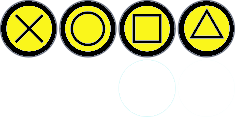
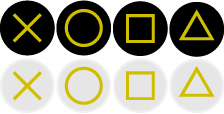
Add files via upload

diff --git a/Controllers/beez/style.css b/Controllers/beez/style.css
@@ -1,123 +1,137 @@
-body { 
-    background-color: #000000; 
-    background-color: RGBA(0, 0, 0, 0); 
-    margin: 0 auto; 
-    overflow: hidden; 
-} .controller.xbox{
-    background: url(https://i.imgur.com/kS8T8Dt.png);
-    width: 807px;
-    height: 651px;
-    margin-left: 0;
-    margin-top: 0;
-} .xbox .sticks {
-	width: 367px;
-    height: 100px;
-    left: 220px;
-    top: 333px;
-}.xbox .stick {
-    background: url(https://i.imgur.com/D89v2xc.png);
-    width: 100px;
-    height: 100px;
-} .xbox .stick.pressed {
-    background-position: -102px 0;
-} .xbox .stick.right {
-    top: 0;
-    left: 267px;
-} .xbox .abxy {
-    width: 181px;
-    height: 181px;
-    left: 573px;
-    top: 178px;
-} .xbox .button {
-    background: url(https://i.imgur.com/p4vyf2h.png);
-    width: 58px;
-    height: 58px;
-} .xbox .button.pressed {
-  	background-position-y: -59px;
-	margin-top: 0;
-} .xbox .a {
-    background-position: 0 0;
-    left: 61px;
-    top: 123px;
-} .xbox .b {
-    background-position: -59px 0;
-    left: 123px;
-    top: 62px;
-} .xbox .x {
-    background-position: -118px 0;
-    left: 0px;
-    top: 61px;
-} .xbox .y {
-    background-position: -177px 0;
-    left: 61px;
-    top: 0px;
-} .xbox .arrows {
-    left: 195px;
-	top: 140px;
-    width: 416px;
-    height: 57px;
-} .xbox .quadrant { 
-    display: none; 
-} .xbox .back, .xbox .start {
-    background: url(https://i.imgur.com/3wQwtuy.png);
-    width: 27px;
-    height: 57px;
-    opacity: 0;
-} .xbox .start {
-    background-position: 27px 0;
-    float: right;
-} .xbox .dpad {
-	width: 144px;
-    height: 144px;
-    left: 71px;
-    top: 196px;
-} .xbox .face {
-    background: url(beezface.png);
-    position: absolute;
-    opacity: 0;
-} .xbox .face.up {
-    background-position: 0 -68px;
-    width: 52px;
-    height: 63px;
-    left: 46px;
-} .xbox .face.down {
-    background-position: -54px 63px;
-    width: 52px;
-    height: 63px;
-    left: 46px;
-    top: 81px;
-} .xbox .face.left {
-    background-position: -108px -68px;
-    width: 64px;
-    height: 52px;
-    left: -1px;
-    top: 47px; 
-} .xbox .face.right {
-    background-position: -175px -68px;
-    width: 63px;
-    height: 52px;
-    left: 81px;
-    top: 46px;
-} .xbox .bumpers {
-    width: 620px;
-    height: 35px;
-    left: 93px;
-    top: 114px;
-} .xbox .bumper {
-    background: url(https://i.imgur.com/VDe9rS4.png);
-    width: 110px;
-    height: 35px;
-    opacity: 0;
-} .xbox .triggers {
-    width: 619px;
-    height: 108px;
-    left: 94px;
-} .xbox .trigger {
-    background: url(https://i.imgur.com/3W36mr8.png);
-    width: 111px;
-    height: 108px;
-    opacity: 0;
-} .xbox .trigger.right {
-    background-position: -113px 0;
-	transform: rotateY(0);
+/*BEGIN PS4 Controller Styling*/
+.controller.ds4 {
+    background: url(beezbase.gif);
+    height: 598px;
+    width: 806px;
+    /*    margin-left: -403px;
+        margin-top: -280px;*/
 }
+
+.ds4 .abxy {
+    position: absolute;
+    width: 170px;
+    height: 171px;
+    top: 159px;
+    left: 567px;
+}
+
+.ds4 .button {
+    position: absolute;
+    width: 55px;
+    height: 55px;
+    background: url(beezface.png);
+}
+
+.ds4 .button.pressed {
+    background-position-y: 55px;
+    /* margin-top: 5px; */
+}
+
+.ds4 .a {
+    background-position: 0 0;
+    bottom: 0;
+    left: 58px;
+}
+
+.ds4 .b {
+    background-position: -57px 0;
+    top: 58px;
+    right: 0px;
+}
+
+.ds4 .x {
+    background-position: -113px 0;
+    top: 58px;
+}
+
+.ds4 .y {
+    background-position: 55px 0;
+    left: 58px;
+}
+
+.ds4 .sticks {
+    position: absolute;
+    width: 361px;
+    height: 105px;
+    top: 308px;
+    left: 228px;
+}
+
+.ds4 .stick {
+    position: absolute;
+    background: url(beezsticks.png);
+    height: 94px;
+    width: 94px;
+}
+
+.ds4 .stick.pressed.left {
+    background-position-x: -96px;
+}
+
+.ds4 .stick.pressed.right {
+    background-position-x: -192px;
+}
+
+.ds4 .stick.left {
+    top: 0;
+    left: 0;
+}
+
+.ds4 .stick.right {
+    top: calc(100% - 105px);
+    left: calc(100% - 105px);
+}
+
+.ds4 .dpad {
+    position: absolute;
+    width: 125px;
+    height: 126px;
+    top: 181px;
+    left: 92px;
+}
+
+.ds4 .face {
+    background: url(beezdpad.png);
+    position: absolute;
+}
+
+.ds4 .face.up, .ds4 .face.down {
+    width: 36px;
+    height: 52px;
+}
+
+.ds4 .face.left, .ds4 .face.right {
+    width: 52px;
+    height: 36px;
+}
+
+.ds4 .face.up {
+    left: 44px;
+    top: 0;
+    background-position: -37px 0px;
+}
+
+.ds4 .face.down {
+    left: 44px;
+    bottom: 0;
+    background-position: 0px 0;
+}
+
+.ds4 .face.left {
+    top: 45px;
+    left: 0;
+    background-position: 104px 0;
+}
+
+.ds4 .face.right {
+    top: 45px;
+    right: 0px;
+    background-position: 52px 0;
+}
+
+.ds4 .face.pressed {
+    /* margin-top: 5px; */
+    background-position-y: 52px;
+}
+
+/*END PS4 Controller Styling*/
